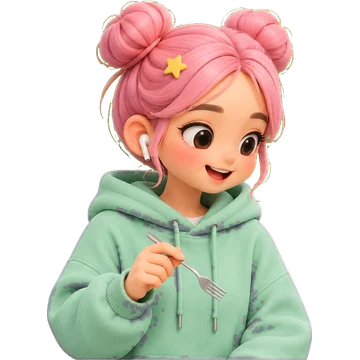
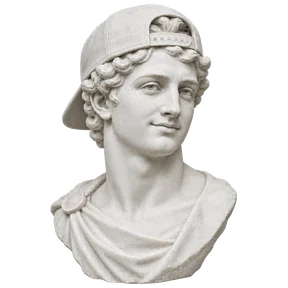
Section 2 v5, marble-bust diners, design tokens
- section 2: one result card (dish photo + name | way, main action, places, again);
  clear empty state with one button
- diners: five Gen Z marble busts replace the cartoon people; '+ სტუმარი 2/5' button
- tokens: K1 colours (ink, paper, one action colour) and F1 shapes (pill/16/10)
- fix: group note created an extra hero column and pushed the wheel left
- mobile: wheel shrinks when guests are seated so all busts stay on screen

Claude-Session: https://claude.ai/code/session_019jQ4HNC6F1M6arDso6kQeq

diff --git a/components/Paths.tsx b/components/Paths.tsx
@@ -3,7 +3,9 @@
  * Application: რა ვჭამოთ? (WTI)
  * Author:      Sandro Germanishvili
  * Date:        2026-11-25
- * Version:     v4.1 — collage: a marble hand offers the dish, the name is a paper strip;
+ * Version:     v5.0 — one result card: dish photo + name on the left, way / main action /
+ *              places on the right; clear empty state. (v4 stacked 9 centred blocks.)
+ *              v4.1 — collage: a marble hand offers the dish, the name is a paper strip;
  *              v4.0 — one object, one choice, one button (Sandro's UX review: 4 boxes,
  *              5 buttons, 5 links and 6 moving illustrations slowed the decision down).
  *              (v3.0 — three cards: read / go / order)
@@ -16,10 +18,9 @@
  */
 "use client";
 
-import { Strip } from "./Strip";
 import Image from "next/image";
 import { useEffect, useState } from "react";
-import { priceBand, type Dish } from "@/lib/catalog.ts";
+import type { Dish } from "@/lib/catalog.ts";
 import { stickerSrc } from "@/lib/stickers.ts";
 import { typePhoto } from "@/lib/photos.ts";
 import { Words } from "./Words";
@@ -83,50 +84,51 @@ export function Paths({ dish, place, radius, group, onPickPlace, onSpin, onAgain
           <Words caps parts={["სად ", ["შეჭამ?", "accent"]]} />
         </h2>
 
-        {/* collage v7.1: a marble hand offers today's dish (was a plate with arc text) */}
-        <div className="offer" aria-hidden={!dish}>
-          <Image className="offer__hand" src="/collage/palm.webp" alt="" width={1000} height={494} sizes="(max-width: 640px) 92vw, 560px" />
-          {dish
-            ? <Image key={dish.slug} className="offer__dish paths2__dish" src={typePhoto(dish.slug)?.src ?? stickerSrc(dish.slug)} alt="" width={256} height={256} sizes="200px" />
-            : <button className="offer__empty btn" onClick={onSpin}>ჯერ დაატრიალე ↑</button>}
-        </div>
+        {!dish ? (
+          /* empty state: one picture, one sentence, one button */
+          <div className="result result--empty">
+            <Image className="result__hand" src="/collage/palm.webp" alt="" width={1000} height={494} sizes="(max-width: 640px) 80vw, 420px" />
+            <p className="result__hint">ბორბალი ჯერ არ დაგიტრიალებია. ჯერ კერძი ამოიღე, მერე აქ გაჩვენებ, სად შეჭამ.</p>
+            <button className="btn" onClick={onSpin}>დაატრიალე ბორბალი ↑</button>
+          </div>
+        ) : (
+          /* v5: one result card — left: the dish, right: how to get it */
+          <div className="result">
+            <figure className="result__dish">
+              <Image key={dish.slug} className="result__photo paths2__dish" src={typePhoto(dish.slug)?.src ?? stickerSrc(dish.slug)} alt={dish.name} width={640} height={640} sizes="(max-width: 640px) 90vw, 420px" />
+              <figcaption>
+                <h3 className="result__name">{dish.name}</h3>
+                <p className="result__meta">≈ {dish.priceGel[0]}–{dish.priceGel[1]} ₾ · {dish.cuisine}</p>
+                {group && <p className="result__group"><strong>{group.summary}</strong><br />{group.dishes.join(" · ")}</p>}
+              </figcaption>
+            </figure>
 
-        {dish && (
-          <>
-            <p className="paths2__name"><Strip text={dish.name} tone="yellow" /></p>
-            <p className="paths2__meta">
-              ≈ {dish.priceGel[0]}–{dish.priceGel[1]} ₾ · {"₾".repeat(priceBand(dish))} · {dish.cuisine}
-              {group && <> · <strong>{group.summary}</strong></>}
-            </p>
-            {group && <p className="paths2__group">{group.dishes.join(" · ")}</p>}
+            <div className="result__how">
+              <div className="seg" role="radiogroup" aria-label="როგორ">
+                <button role="radio" aria-checked={way === "go"} className={way === "go" ? "on" : ""} onClick={() => setWay("go")}>მივალ</button>
+                <button role="radio" aria-checked={way === "order"} className={way === "order" ? "on" : ""} onClick={() => setWay("order")}>შევუკვეთავ</button>
+              </div>
 
-            <div className="paths2__switch" role="radiogroup" aria-label="როგორ">
-              <button role="radio" aria-checked={way === "go"} className={way === "go" ? "on" : ""} onClick={() => setWay("go")}>მიდი</button>
-              <button role="radio" aria-checked={way === "order"} className={way === "order" ? "on" : ""} onClick={() => setWay("order")}>გამოიძახე</button>
+              {main && <a className="btn btn--lg result__main" href={main.href} target="_blank" rel="noreferrer">{main.label} ↗</a>}
+
+              <ul className="result__list">
+                {way === "go" && venues.kind === "no-place" && (
+                  <li className="result__note"><button className="link" onClick={onPickPlace}>აირჩიე უბანი</button> — და ახლომახლო ადგილებს გაჩვენებ.</li>
+                )}
+                {way === "go" && venues.kind === "loading" && <li className="result__note">ვეძებ ახლოს…</li>}
+                {way === "go" && venues.kind === "error" && <li className="result__note">ადგილები ვერ ჩაიტვირთა ({venues.message})</li>}
+                {way === "go" && venues.kind === "ready" && near.length === 0 && <li className="result__note">{radius} კმ-ში ვერ ვიპოვე — სცადე რუკაზე.</li>}
+                {way === "go" && near.slice(group ? 0 : 1).map((v) => (
+                  <li key={v.id}><a className="row" href={mapsDirectionsUrl(v)} target="_blank" rel="noreferrer"><span>{v.name}</span><span>{km(v.distanceKm)} ↗</span></a></li>
+                ))}
+                {way === "order" && delivery.slice(1).map((d) => (
+                  <li key={d.id}><a className="row" href={d.url} target="_blank" rel="noreferrer"><span><i style={{ background: d.dot }} />{d.name}</span><span>↗</span></a></li>
+                ))}
+              </ul>
+
+              <button className="pill pill--outline result__again" onClick={onAgain}>კიდევ დაატრიალე</button>
             </div>
-
-            {main && <a className="btn" href={main.href} target="_blank" rel="noreferrer">{main.label} ↗</a>}
-
-            <ul className="paths2__rows">
-              {way === "go" && venues.kind === "no-place" && (
-                <li><button className="link" onClick={onPickPlace}>აირჩიე უბანი — ახლომახლო ადგილებს გაჩვენებ →</button></li>
-              )}
-              {way === "go" && venues.kind === "loading" && <li className="muted">ვეძებ ახლოს…</li>}
-              {way === "go" && venues.kind === "error" && <li className="muted">ადგილები ვერ ჩაიტვირთა ({venues.message})</li>}
-              {way === "go" && venues.kind === "ready" && near.length === 0 && <li className="muted">{radius} კმ-ში ვერ ვიპოვე — სცადე რუკაზე.</li>}
-              {way === "go" && near.slice(group ? 0 : 1).map((v) => (
-                <li key={v.id}><a href={mapsDirectionsUrl(v)} target="_blank" rel="noreferrer"><span>{v.name}</span><span>{km(v.distanceKm)}</span></a></li>
-              ))}
-              {way === "order" && delivery.slice(1).map((d) => (
-                <li key={d.id}><a href={d.url} target="_blank" rel="noreferrer"><span><i style={{ background: d.dot }} />{d.name}</span><span>↗</span></a></li>
-              ))}
-            </ul>
-
-            <p className="paths2__foot">
-              <button className="link" onClick={onAgain}>კიდევ დაატრიალე</button>
-              <span>ბლოგები და შეფასებები — მალე</span>
-            </p>
-          </>
+          </div>
         )}
       </div>
     </section>

diff --git a/app/collage.css b/app/collage.css
@@ -479,3 +479,69 @@ button.panel__hint:hover { border-color: var(--news) !important; }
 }
 /* standard E1: no torn edges in the UI — the header gets a clean edge and a soft shadow */
 .header, .header--scrolled, .header[data-on] { -webkit-mask: none !important; mask: none !important; box-shadow: 0 1px 0 rgba(28, 26, 23, .08), 0 8px 20px -14px rgba(28, 26, 23, .45) !important; }
+
+/* ── 18 · design tokens v1 (standard F1 shapes, K1 colours) ─────────────
+   Every new rule uses these — no new hex values or radii in components. */
+:root {
+  /* K1 colours: 4 surfaces + ink + 1 action colour */
+  --c-ink: #1c1a17;        /* text, outlines, B2 */
+  --c-paper: #fffaf2;      /* cards, chips, sheets */
+  --c-action: #d92f4c;     /* B1, selected states, winner — the ONLY "press me" colour */
+  --c-action-base: #a8253b;
+  --c-muted: rgba(28, 26, 23, .62);
+  --c-line: rgba(28, 26, 23, .16);
+  /* section surfaces (backgrounds only, never on controls) */
+  --s-pink: #f8b4c0; --s-cream: #fff1dc; --s-green: #163c3a; --s-yellow: #ffc93c;
+  /* F1 shapes: exactly three radii */
+  --r-pill: 999px;   /* buttons, chips, segmented control */
+  --r-card: 16px;    /* cards, sheets, popups, result card */
+  --r-inner: 10px;   /* rows and photos inside a card */
+  --line: 1.5px solid var(--c-line);
+  --lift: 0 12px 28px -16px rgba(28, 26, 23, .45);
+}
+
+/* ── 19 · section 2 v5: one result card ─────────────────────────────── */
+.paths2__inner { display: grid; justify-items: center; gap: 28px; }
+.result { width: min(980px, 100%); display: grid; grid-template-columns: minmax(0, 1fr) minmax(0, 1fr); gap: 32px; align-items: start;
+  background: var(--c-paper); border-radius: var(--r-card); box-shadow: var(--lift); padding: 28px; text-align: left; }
+.result__dish { margin: 0; display: grid; gap: 14px; }
+.result__photo { width: 100%; height: auto; aspect-ratio: 4 / 3; object-fit: cover; border-radius: var(--r-inner); display: block; }
+.result__name { margin: 0; font: 800 clamp(26px, 3vw, 36px)/1.05 var(--display); color: var(--c-ink); }
+.result__meta { margin: 4px 0 0; color: var(--c-muted); font-size: 15px; }
+.result__group { margin: 8px 0 0; font-size: 14px; color: var(--c-ink); }
+.result__how { display: grid; gap: 16px; align-content: start; }
+.result__main { width: 100%; }
+.result__list { list-style: none; margin: 0; padding: 0; display: grid; gap: 8px; }
+.result__list .row { display: flex; justify-content: space-between; gap: 12px; padding: 12px 14px; border: var(--line); border-radius: var(--r-inner); color: var(--c-ink); text-decoration: none; font-weight: 600; }
+.result__list .row:hover { border-color: var(--c-ink); }
+.result__list .row i { display: inline-block; width: 10px; height: 10px; border-radius: 50%; margin-right: 8px; }
+.result__note { color: var(--c-muted); font-size: 14px; }
+.result__again { justify-self: start; }
+/* segmented control (C2): two options in one pill */
+.seg { display: grid; grid-template-columns: 1fr 1fr; padding: 4px; border: var(--line); border-radius: var(--r-pill); background: #fff; }
+.seg button { min-height: 40px; border: 0; border-radius: var(--r-pill); background: none; font: 700 15px/1 var(--font); color: var(--c-ink); cursor: pointer; }
+.seg button.on { background: var(--c-ink); color: var(--c-paper); }
+/* empty state */
+.result--empty { grid-template-columns: 1fr; justify-items: center; text-align: center; max-width: 560px; gap: 16px; }
+.result__hand { width: min(420px, 80%); height: auto; }
+.result__hint { margin: 0; color: var(--c-muted); max-width: 40ch; }
+/* section 2 keeps only its title + the bridge hand from the clouds; the palm lives in the empty state */
+.paths__churchkhela { display: none !important; }
+@media (max-width: 760px) {
+  .result { grid-template-columns: 1fr; padding: 18px; gap: 20px; }
+}
+
+/* ── 20 · diners v2: marble busts, one clear add button ─────────────── */
+.seat--paper { width: 19%; }
+.seat--paper .seat__who { filter: drop-shadow(0 8px 8px rgba(28, 26, 23, .3)); }
+.seat--paper.seat--r .seat__who img { scale: 1 1; }   /* busts aren't mirrored */
+.seat--paper .seat__x { width: 22px; height: 22px; border-radius: var(--r-pill); background: var(--c-ink); color: var(--c-paper); border: 0; font-size: 14px; line-height: 22px; }
+.seat-card { font-size: 12px !important; padding: 6px 10px !important; white-space: nowrap; }
+.wheel__add.wheel__add { min-height: 40px; padding: 0 16px !important; gap: 8px; font: 700 14px/1 var(--font) !important; color: var(--c-paper) !important; background: var(--c-ink) !important; border-radius: var(--r-pill) !important; }
+.wheel__add span { opacity: .6; font-weight: 600; }
+.wheel__add:hover { background: var(--c-action) !important; }
+/* group note had grid-area "note", which the v7.5 hero template lacks → it created an extra column and pushed the hero left */
+.hero__inner > .group-note { grid-area: auto !important; grid-column: 1 !important; justify-self: center; border-radius: var(--r-pill) !important; border: var(--line); box-shadow: none !important; padding: 8px 16px; }
+.paths2__inner { max-width: none !important; }
+/* with guests at the table the wheel steps back so every bust stays on screen */
+@media (max-width: 640px) { .hero__stage:has(.seat ~ .seat) { width: 72vw !important; } .seat--paper { width: 22%; } }

diff --git a/components/Wheel.tsx b/components/Wheel.tsx
@@ -3,7 +3,8 @@
  * Application: რა ვჭამოთ? (WTI)
  * Author:      Sandro Germanishvili
  * Date:        2026-11-25
- * Version:     v10 — simpler, photo-first: each slice IS the dish photo (full wedge, no
+ * Version:     v10.1 — diners are marble busts; add button reads "+ სტუმარი";
+ *              v10 — simpler, photo-first: each slice IS the dish photo (full wedge, no
  *              crooked mini cut-outs), names on one cream rim band, thin paper dividers,
  *              plain round plate (no torn edge, dashed ring or tape). Winner's band turns coral.
  *              v9.1 — real paper texture (public/collage/paper.webp) instead of SVG noise;
@@ -219,7 +220,7 @@ export function Wheel({ dishes, rotation, spinning, spinMs, winnerIndex, landedO
         </div>
       ))}
       {diners < MAX_DINERS && !spinning && (
-        <button className="wheel__add" onClick={onAddDiner} aria-label="დაამატე ადამიანი">+ <span>{diners}/{MAX_DINERS}</span></button>
+        <button className="wheel__add" onClick={onAddDiner} aria-label={`დაამატე სტუმარი (${diners} / ${MAX_DINERS})`}>+ სტუმარი <span>{diners}/{MAX_DINERS}</span></button>
       )}
     </div>
   );
